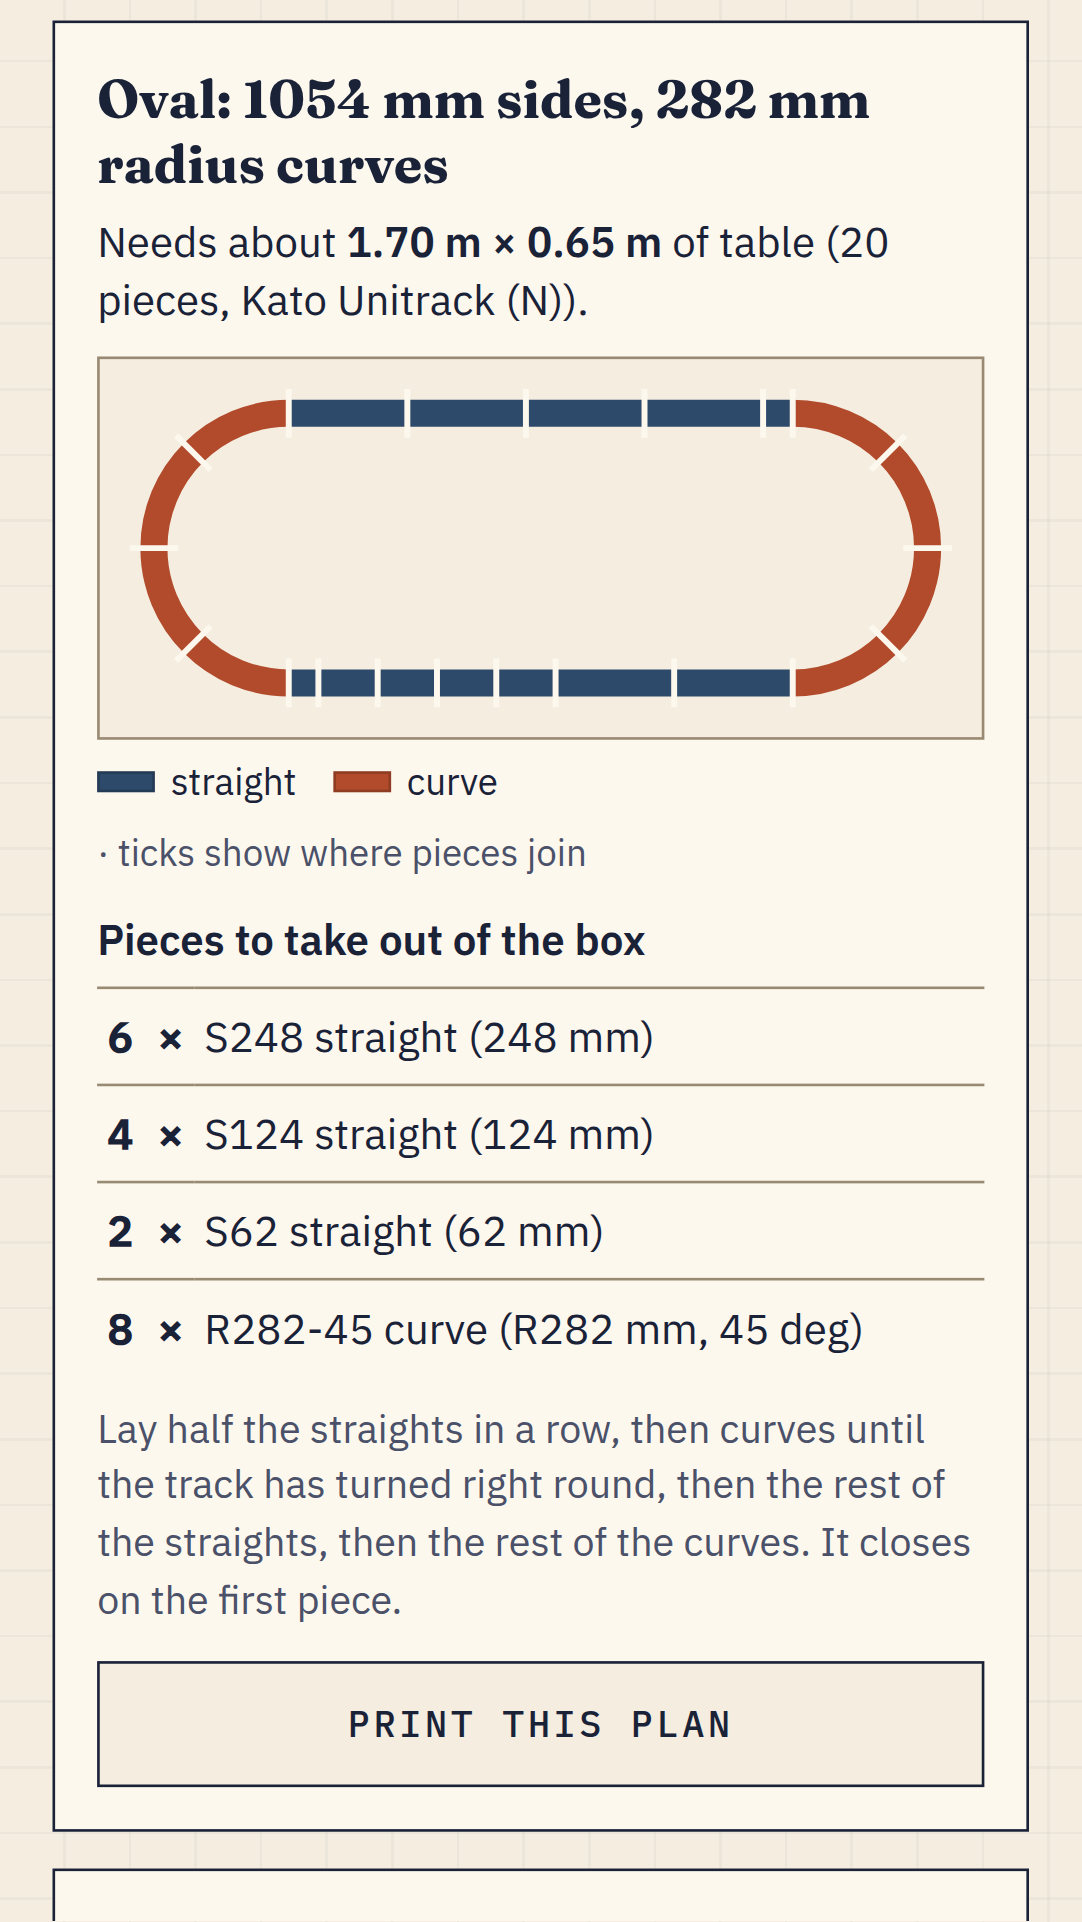
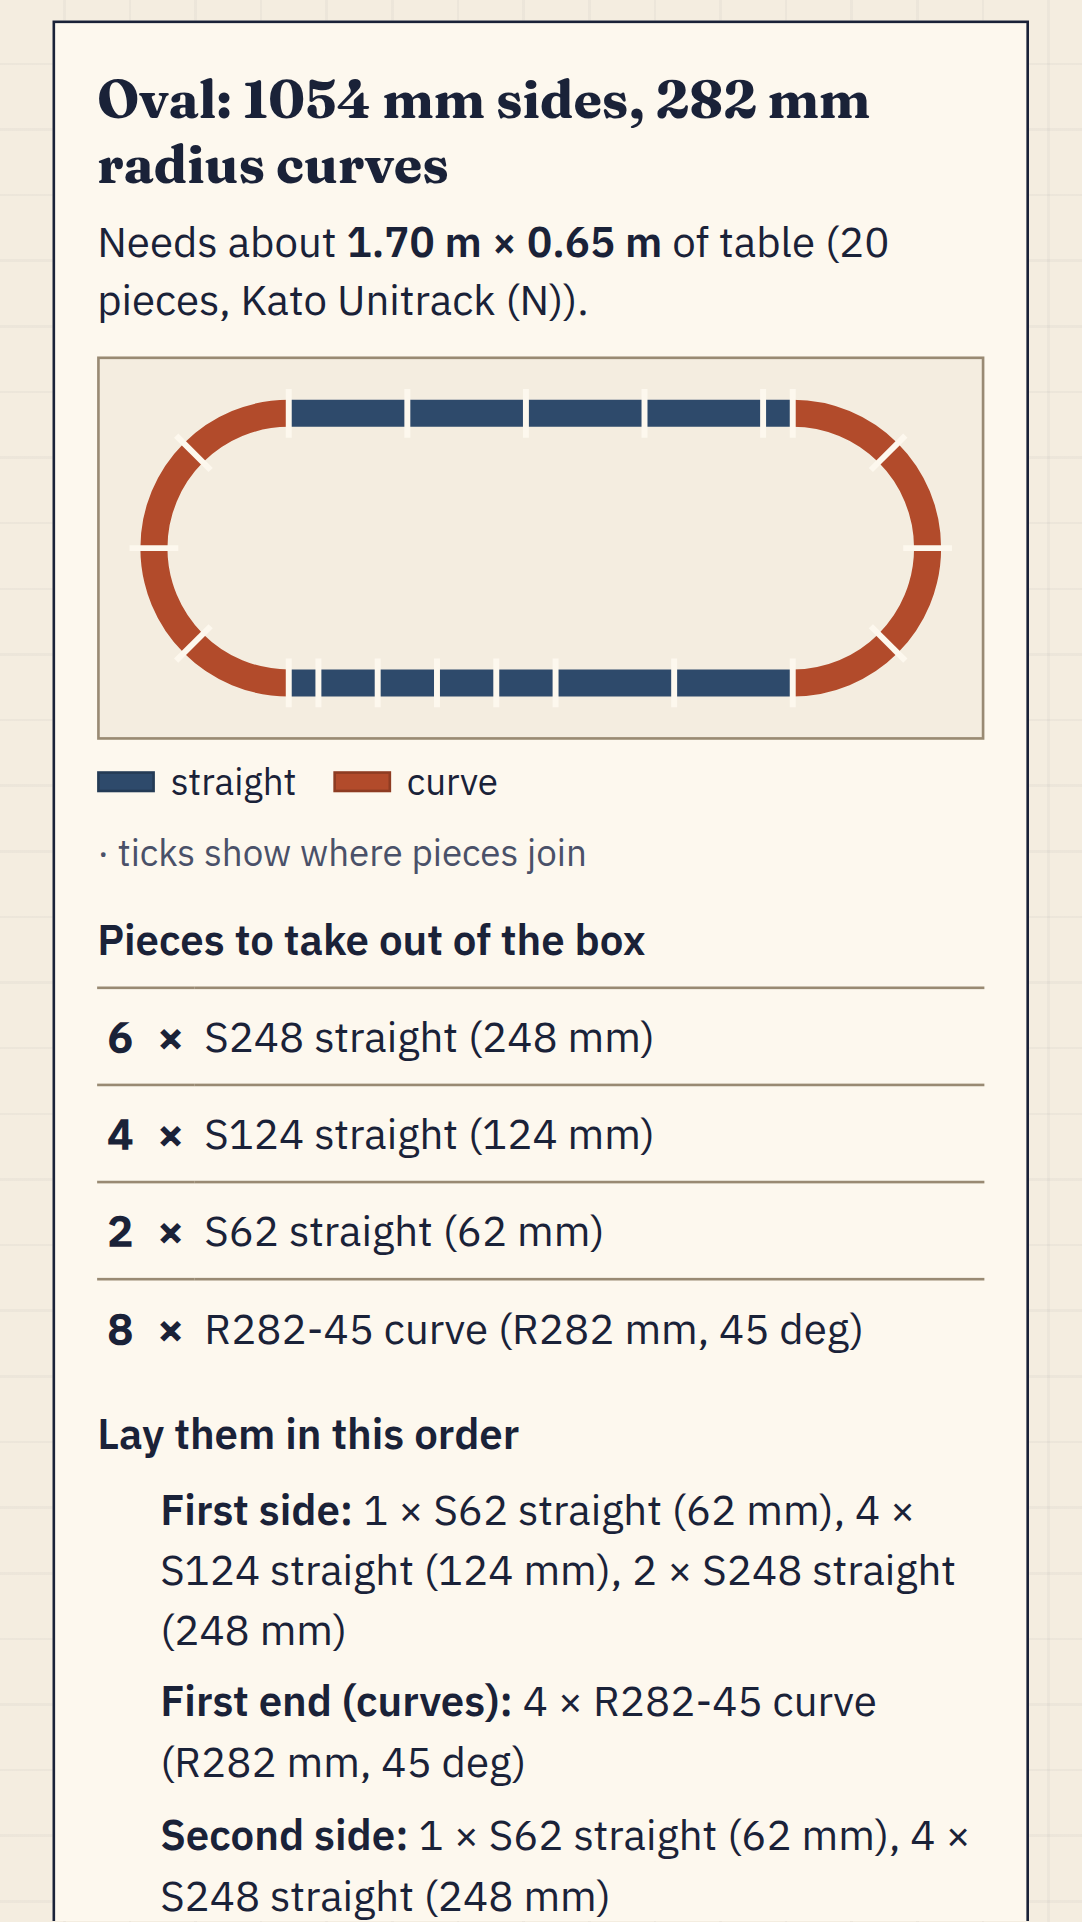
Store screenshots from the final build (running order, plain headings); handoff test count corrected

Changed region(s): [[0.0915, 0.718, 0.8845, 0.999], [0.8845, 0.8741, 0.915, 0.9365]]

diff --git a/HANDOFF.md b/HANDOFF.md
@@ -67,8 +67,8 @@ untouched. Every commit on this branch has been pushed to GitHub.
    removed. It was never deployed and gave different answers.
    `MONETIZE_HANDOFF.md` is headed SUPERSEDED.
 
-Tests: 25 new ones.
-- 11 loop tests: every plan closes, never over-uses a piece, never mixes
+Tests: 14 new ones.
+- 10 loop tests: every plan closes, never over-uses a piece, never mixes
   brands or radii, respects the table size, random boxes.
 - 1 test that the gap finder never uses more of a piece than you own.
 - 3 curved-gap tests.
